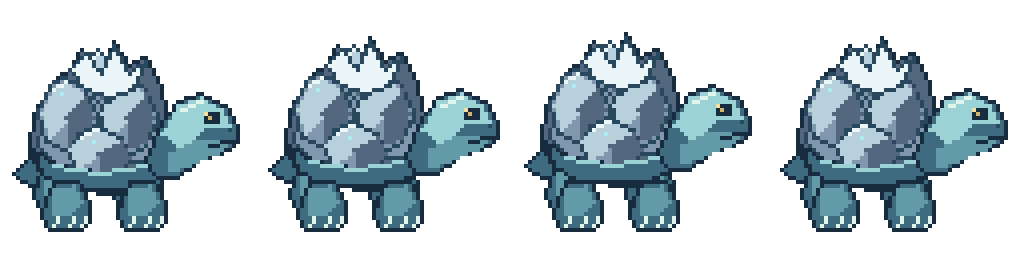
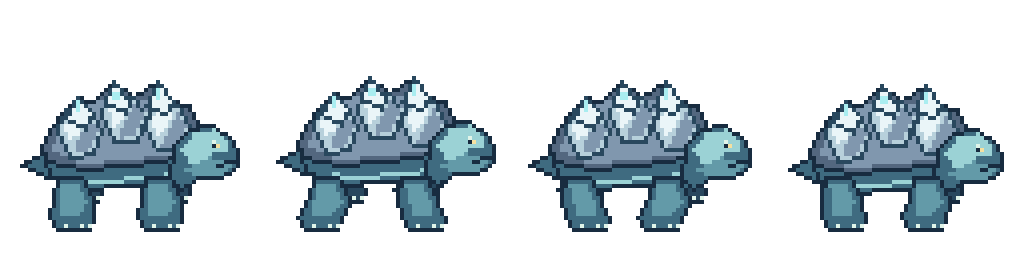
Shellback v3 low side profile and progressive tipped death (WIP, audit not run)

diff --git a/game/assets/arcane/b03-glacier-shellback/REVIEW.md b/game/assets/arcane/b03-glacier-shellback/REVIEW.md
@@ -1,9 +1,9 @@
-# Glacier Shellback v2 — review
+# Shellback v3 review
 
-| Existing b04 Puffcap | Revised Shellback |
-| --- | --- |
-| ![Puffcap](../b04-mad-maze-enemies/enemies/puffcap/puffcap_idle_down.png) | ![Shellback](creatures/glacier_shellback/glacier_shellback_idle_down.png) |
+| Prior v2 | New right | B04 Puffcap |
+|---|---|---|
+| ![v2](https://raw.githubusercontent.com/bawls-eth/awesome-24px/83e4d6ec3281fbba7c3c307ec884f35222d1d00f/game/assets/arcane/b03-glacier-shellback/creatures/glacier_shellback/glacier_shellback_idle_right.png) | ![v3](creatures/glacier_shellback/glacier_shellback_idle_right.png) | ![Puffcap](../b04-mad-maze-enemies/enemies/puffcap/puffcap_idle_down.png) |
 
-![All 60 revised cells](preview.png)
+![Revised strips](preview-v3.png)
 
-Rows 1–4 down, 5–8 up, 9–12 right; each idle, move, attack, death. Separate 1-eye head profile and neck, open-jaw strike after anticipation, tipped shell and splayed limbs on last 2 death frames. Rear idle has 4 distinct cells. Comparison is side-by-side Markdown (not combined image). Repository audit/tests unavailable locally. No visual approval claimed.
+Cycle 6 Shellback v3: six strips / 30 cells revised, existing PR #61. Right idle bbox 220x152 first frame, low shell with separate ridge spikes, plastron and alternating visible foot lift, exposed neck extension. Death has rotated shell recoil, tipping, rim contact, wider settled closed-eye pose and intentionally held final frame. Native bounds and y231 anchor checked; 4x hard-alpha construction. Full audit and independent PNG decode/hash comparison not run. Down move and attack minor nits remain from v2; front/rear death continuity, apparent shell/limb contact and exact lunge displacement need review. Existing other six strips retained. No code changes.

diff --git a/game/design/CODEX-HANDOFF.md b/game/design/CODEX-HANDOFF.md
@@ -23,3 +23,7 @@ Find where you saved your earlier image work (you were loading assets for the ga
 
 ## Codex update — Glacier Shellback v2 (2026-11-24)
 2026-11-24 — Glacier Shellback revision 2 pushed for PR #61 review: 12 strips / 60 frames. True right-facing profile with visible neck and one eye; front attack anticipation and open-jaw strike; final two death frames flattened with tipped shell and spread limbs; rear idle now 4 distinct cells. Native buffer checks pass for frame counts, 4x cell construction, corners, hard alpha, palette and baseline y231. Full repository audit/tests not run: local Git DNS failed. Preview inspected; Claude must verify actual PNG decoding, audit and gameplay. No merge requested. Next: W-06 pebble_tortle, puffwool, frostfox exact height redraws.
+
+
+## Codex Shellback v3
+Cycle 6 Shellback v3: six strips / 30 cells revised, existing PR #61. Right idle bbox 220x152 first frame, low shell with separate ridge spikes, plastron and alternating visible foot lift, exposed neck extension. Death has rotated shell recoil, tipping, rim contact, wider settled closed-eye pose and intentionally held final frame. Native bounds and y231 anchor checked; 4x hard-alpha construction. Full audit and independent PNG decode/hash comparison not run. Down move and attack minor nits remain from v2; front/rear death continuity, apparent shell/limb contact and exact lunge displacement need review. Existing other six strips retained. No code changes.

diff --git a/game/design/CODEX-REMAKE-QUEUE.md b/game/design/CODEX-REMAKE-QUEUE.md
@@ -595,3 +595,7 @@ New:
 
 ## Codex status — Glacier Shellback v2 (2026-11-24)
 **Submitted revision, pending Claude review (PR #61).** 2026-11-24 — Glacier Shellback revision 2 pushed for PR #61 review: 12 strips / 60 frames. True right-facing profile with visible neck and one eye; front attack anticipation and open-jaw strike; final two death frames flattened with tipped shell and spread limbs; rear idle now 4 distinct cells. Native buffer checks pass for frame counts, 4x cell construction, corners, hard alpha, palette and baseline y231. Full repository audit/tests not run: local Git DNS failed. Preview inspected; Claude must verify actual PNG decoding, audit and gameplay. No merge requested. Next: W-06 pebble_tortle, puffwool, frostfox exact height redraws.
+
+
+## Codex Shellback v3 submission
+Cycle 6 Shellback v3: six strips / 30 cells revised, existing PR #61. Right idle bbox 220x152 first frame, low shell with separate ridge spikes, plastron and alternating visible foot lift, exposed neck extension. Death has rotated shell recoil, tipping, rim contact, wider settled closed-eye pose and intentionally held final frame. Native bounds and y231 anchor checked; 4x hard-alpha construction. Full audit and independent PNG decode/hash comparison not run. Down move and attack minor nits remain from v2; front/rear death continuity, apparent shell/limb contact and exact lunge displacement need review. Existing other six strips retained. No code changes.

diff --git a/game/assets/arcane/b03-glacier-shellback/README.md b/game/assets/arcane/b03-glacier-shellback/README.md
@@ -1,5 +1,3 @@
-# Glacier Shellback v2
+# Glacier Shellback v3
 
-2026-11-24 — Glacier Shellback revision 2 pushed for PR #61 review: 12 strips / 60 frames. True right-facing profile with visible neck and one eye; front attack anticipation and open-jaw strike; final two death frames flattened with tipped shell and spread limbs; rear idle now 4 distinct cells. Native buffer checks pass for frame counts, 4x cell construction, corners, hard alpha, palette and baseline y231. Full repository audit/tests not run: local Git DNS failed. Preview inspected; Claude must verify actual PNG decoding, audit and gameplay. No merge requested. Next: W-06 pebble_tortle, puffwool, frostfox exact height redraws.
-
-Original 64 native px, 4x RGBA, unchanged IDs/cells/anchors/timing. No baked effects.
+Cycle 6 Shellback v3: six strips / 30 cells revised, existing PR #61. Right idle bbox 220x152 first frame, low shell with separate ridge spikes, plastron and alternating visible foot lift, exposed neck extension. Death has rotated shell recoil, tipping, rim contact, wider settled closed-eye pose and intentionally held final frame. Native bounds and y231 anchor checked; 4x hard-alpha construction. Full audit and independent PNG decode/hash comparison not run. Down move and attack minor nits remain from v2; front/rear death continuity, apparent shell/limb contact and exact lunge displacement need review. Existing other six strips retained. No code changes.

diff --git a/game/assets/arcane/b03-glacier-shellback/CODEX-TO-CLAUDE.md b/game/assets/arcane/b03-glacier-shellback/CODEX-TO-CLAUDE.md
@@ -1,3 +1,1 @@
-# Claude handoff — v2
-
-2026-11-24 — Glacier Shellback revision 2 pushed for PR #61 review: 12 strips / 60 frames. True right-facing profile with visible neck and one eye; front attack anticipation and open-jaw strike; final two death frames flattened with tipped shell and spread limbs; rear idle now 4 distinct cells. Native buffer checks pass for frame counts, 4x cell construction, corners, hard alpha, palette and baseline y231. Full repository audit/tests not run: local Git DNS failed. Preview inspected; Claude must verify actual PNG decoding, audit and gameplay. No merge requested. Next: W-06 pebble_tortle, puffwool, frostfox exact height redraws.
+Cycle 6 Shellback v3: six strips / 30 cells revised, existing PR #61. Right idle bbox 220x152 first frame, low shell with separate ridge spikes, plastron and alternating visible foot lift, exposed neck extension. Death has rotated shell recoil, tipping, rim contact, wider settled closed-eye pose and intentionally held final frame. Native bounds and y231 anchor checked; 4x hard-alpha construction. Full audit and independent PNG decode/hash comparison not run. Down move and attack minor nits remain from v2; front/rear death continuity, apparent shell/limb contact and exact lunge displacement need review. Existing other six strips retained. No code changes.

diff --git a/game/design/TEAM-BOARD.md b/game/design/TEAM-BOARD.md
@@ -338,3 +338,7 @@ new shared/mm-backup-ui.js, hub/index.html + hub.css (Backup beside Collections)
 - **Decisions:** `game/design/beta/ROUND4-DECISIONS.md` (D5-01: Arcane Frontier ships as a "Coming soon" card, no Hub card).
 - **Integration:** on the coordinator's call D5 merges r4-d1..r4-d4 into a local `r4-integ`, runs the full tier in shards
   (`tools/stamp.sh --no-write`) and reports each red test with the commit that caused it.
+
+
+## Codex Shellback v3
+Cycle 6 Shellback v3: six strips / 30 cells revised, existing PR #61. Right idle bbox 220x152 first frame, low shell with separate ridge spikes, plastron and alternating visible foot lift, exposed neck extension. Death has rotated shell recoil, tipping, rim contact, wider settled closed-eye pose and intentionally held final frame. Native bounds and y231 anchor checked; 4x hard-alpha construction. Full audit and independent PNG decode/hash comparison not run. Down move and attack minor nits remain from v2; front/rear death continuity, apparent shell/limb contact and exact lunge displacement need review. Existing other six strips retained. No code changes.
